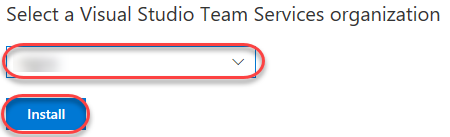
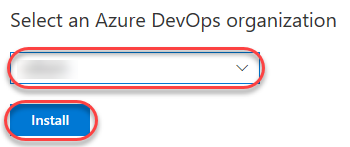
Labs/delivery plans lab refresh (#324)
* Refresh of agile lab. Fixes #309.

* Refreshed delivery plans lab

Changed region(s): [[0.0, 0.292, 0.7714, 0.6715], [0.0, 0.0292, 1.0, 0.2336], [0.0, 0.6715, 0.2857, 1.0]]

diff --git a/labs/azuredevops/deliveryplans/readme.md b/labs/azuredevops/deliveryplans/readme.md
@@ -4,8 +4,8 @@ layout: page
 sidebar: vsts
 permalink: /labs/azuredevops/deliveryplans/
 folder: /labs/azuredevops/deliveryplans/
-version: Lab version - 1.36.1
-updated: Last updated - 7/22/2019
+version: Lab version - 1.37.1
+updated: Last updated - 9/9/2019
 ---
 <div class="rw-ui-container"></div>
 <a name="Overview"></a>
@@ -215,3 +215,4 @@ It takes several teams to develop large software projects. Very large projects r
 1. You can also collapse all teams (or specific teams) using the toggle buttons next to their names.
 
     ![](images/044.png)
+
